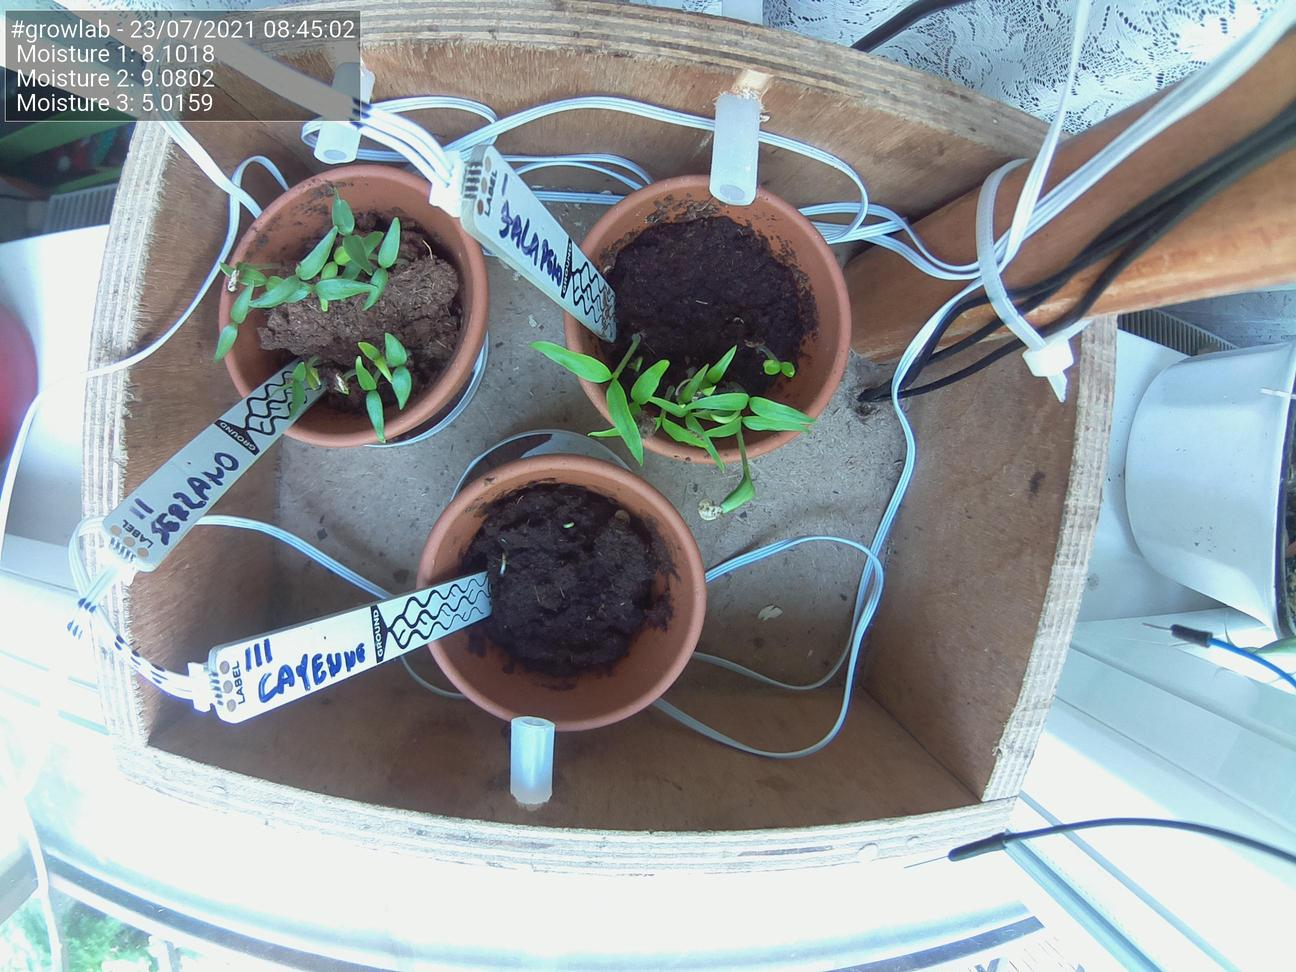
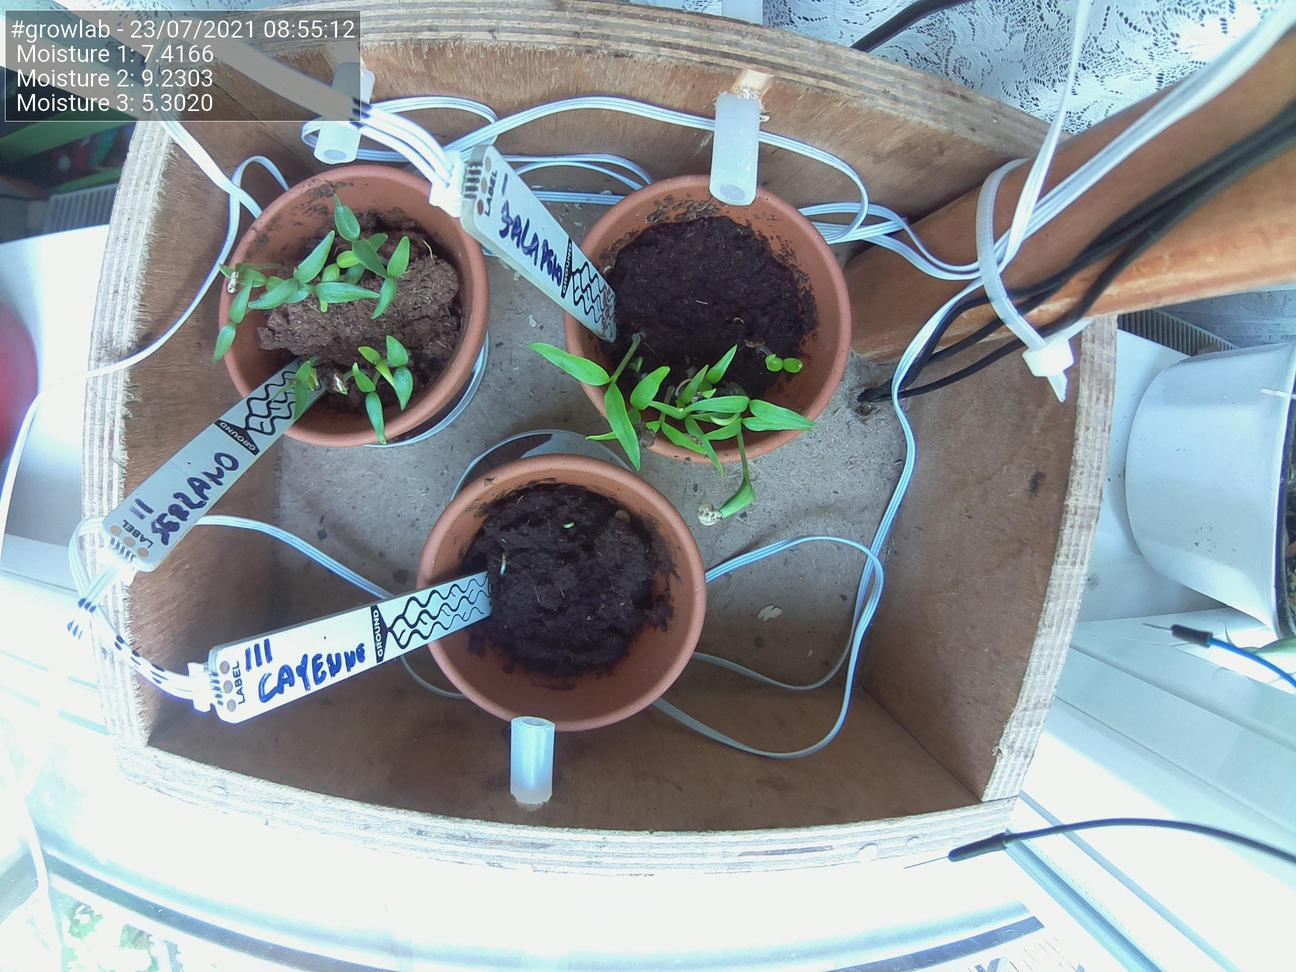
Update images at Fri 23 Jul 08:55:18 BST 2021

diff --git a/docs/index.html b/docs/index.html
@@ -51,25 +51,25 @@
                                 <td>Date</td>
                                 <td>23/07/2021</td>
                                 <td>Time</td>
-                                <td>08:45:02</td>
+                                <td>08:55:12</td>
                             </tr>
                             <tr>
                                 <td>Temperature</td>
                                 <td>N/A</td>
                                 <td>Moisture 1</td>
-                                <td>8.1018</td>
+                                <td>7.4166</td>
                             </tr>
                             <tr>
                                 <td>Humidity</td>
                                 <td>N/A</td>
                                 <td>Moisture 2</td>
-                                <td>9.0802</td>
+                                <td>9.2303</td>
                             </tr>
                             <tr>
                                 <td>Pressure</td>
                                 <td>N/A</td>
                                 <td>Moisture 3</td>
-                                <td>5.0159</td>
+                                <td>5.3020</td>
                             </tr>
                         </tbody>
                     </table>
@@ -77,7 +77,7 @@
 
                 <h5>Latest image</h5>
                 <div style="width: 85%;">
-                            <img class="figure-img img-fluid rounded" src="./preview.jpg?uid=1627026308.1918967">
+                            <img class="figure-img img-fluid rounded" src="./preview.jpg?uid=1627026918.2422414">
                 </div>
             </div>
         </div>
